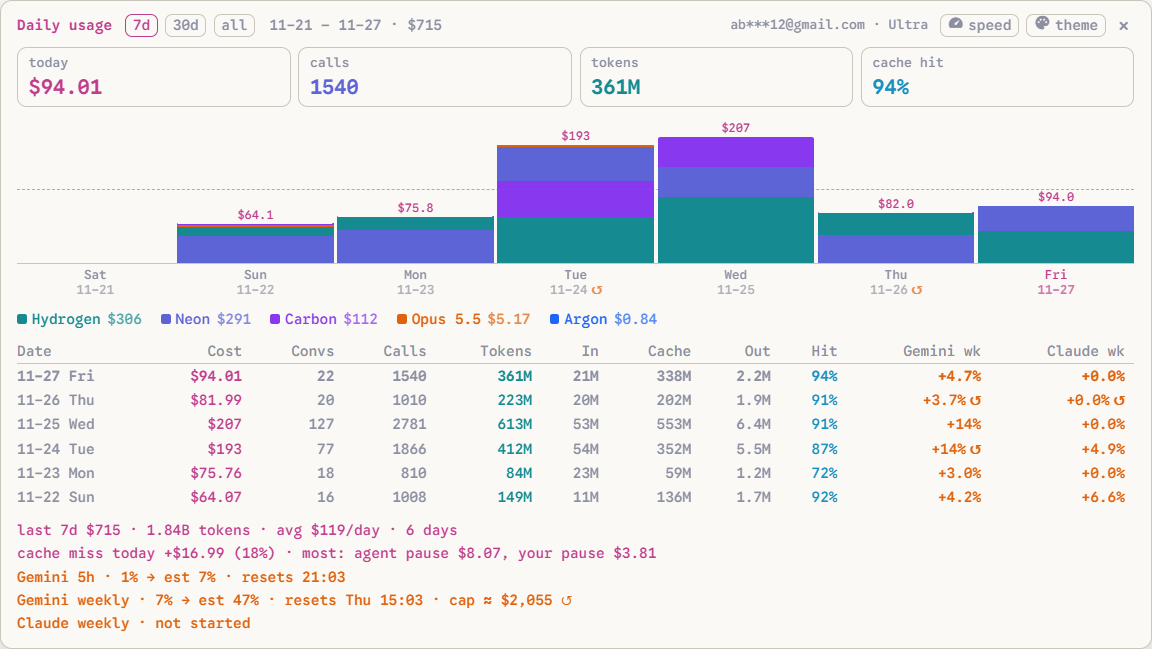
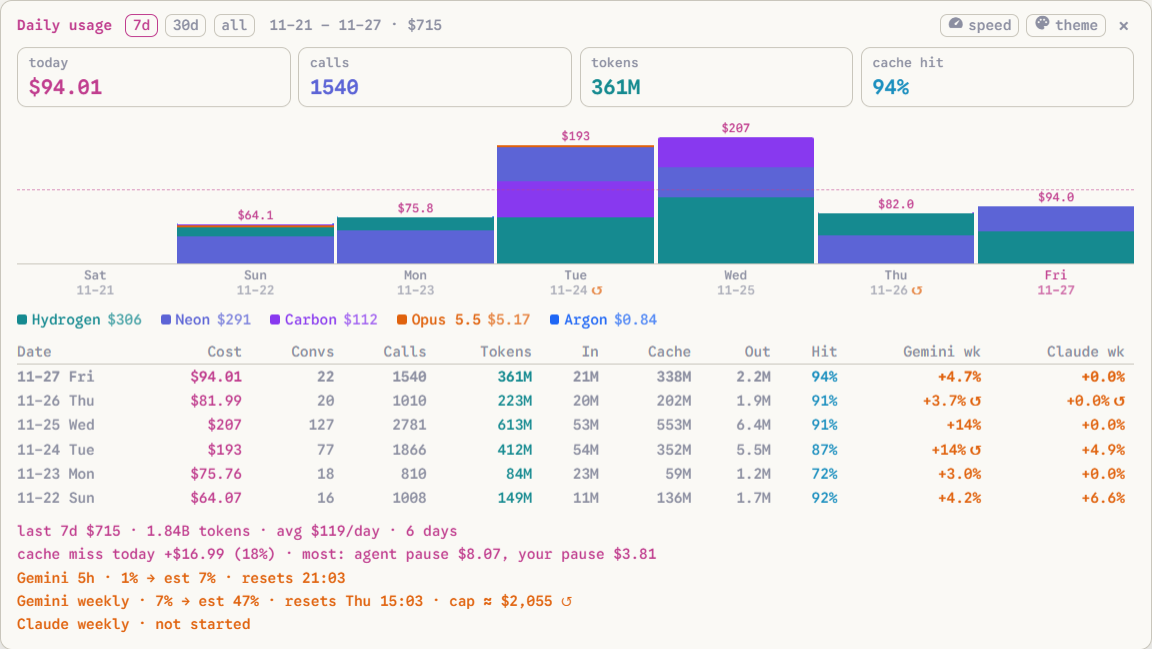
README：开头换成 8 套配色并排（左浅右深），外观一节加 3 种外形图，重画状态栏图，用量图涂掉账号；词典条数更新到 3659 / 133

diff --git a/README.en.md b/README.en.md
@@ -4,14 +4,14 @@
 
 [简体中文](README.md) | [English](README.en.md)
 
-A Chinese plugin for Antigravity Desktop: a full Simplified Chinese UI, plus a usage status bar above the input box. For Windows and macOS.
+A Chinese plugin for Antigravity Desktop: a full Simplified Chinese UI, plus a usage status bar above the input box. 8 palettes and 3 shapes, each in light and dark. For Windows and macOS.
 
 [![Download](https://img.shields.io/github/v/release/ncdeng/agy-zh-pack?label=download&color=D97757)](https://github.com/ncdeng/agy-zh-pack/releases/latest)
 [![License](https://img.shields.io/github/license/ncdeng/agy-zh-pack)](LICENSE)
 ![Windows](https://img.shields.io/badge/platform-Windows-0078D6)
 ![macOS](https://img.shields.io/badge/platform-macOS-555555)
 
-![The usage status bar above the input box](docs/images/statusbar.png)
+![The status bar in 8 palettes, light on the left and dark on the right](docs/images/palettes.png)
 
 </div>
 
@@ -20,13 +20,13 @@ A Chinese plugin for Antigravity Desktop: a full Simplified Chinese UI, plus a u
 
 ## Highlights
 
-- **Full Chinese UI**: menus, settings, buttons, hints and the Swarm panel, with 3582 dictionary entries and 128 rules. Conversations, code and file names stay as they are. Press `Ctrl+Alt+E` (`Ctrl+Option+E` on macOS) to switch back to English at any time.
+- **8 palettes × 3 shapes**: Cometix (the default, from the cometix preset of Haleclipse's ccline), Catppuccin, Tokyo Night, Rosé Pine, Gruvbox, Nord, Dracula and Mono. Shapes: `plain`, `pill` and `powerline`; quota bars: `thin`, `cells` and `ring`. Every palette has a light and a dark version that follow Antigravity. You can pick your own colors for cost, 5h quota, weekly quota and alerts.
+- **Full Chinese UI**: menus, settings, buttons, hints and the Swarm panel, with 3659 dictionary entries and 133 rules. Conversations, code and file names stay as they are. Press `Ctrl+Alt+E` (`Ctrl+Option+E` on macOS) to switch back to English at any time.
 - **Usage at a glance**: two lines above the input box show the model (with the name the API actually returns), context, cache hits, conversation cost, today's cost, time to first token, output speed, and the 5h and weekly quotas. Each subagent gets its own line.
 - **Will the quota last**: projects how much of each quota you will have used at reset, and when it runs out if it will. From your spending, it also estimates what the full 5h and weekly quotas are worth.
 - **Daily usage panel**: cost for 7 days, 30 days or all history, tokens and quota per day, every call in detail, and output speed per model.
 - **Cache misses**: finds large calls that missed the cache, and shows the extra cost and the cause (a pause, a compaction, a model switch).
 - **Compaction viewer**: click `↻3×` after the context to see what the agent still has after an automatic compaction.
-- **8 palettes, customizable**: Cometix, Catppuccin, Tokyo Night, Rosé Pine, Gruvbox, Nord, Dracula and Mono, each with light and dark versions that follow Antigravity. You can pick your own colors for cost, 5h quota, weekly quota and alerts.
 - **agy CLI included**: CLI calls count toward cost, call details and quota estimates.
 - **Signed updates**: click "更新" (Update) in the plugin panel; the plugin checks the author's signature and every file before it installs. The dictionary and prices update online every 6 hours.
 
@@ -72,19 +72,21 @@ Download the new package and run `一键安装` once. Your daily records and loo
 
 ## Status bar
 
+![The usage status bar above the input box: two lines for the main agent, one line per subagent](docs/images/statusbar.png)
+
 | Line | Example | Meaning |
 |---|---|---|
 | First | `Gemini 4 Neon · XHigh` | Model: UI name and thinking level. When the model name the API returns does not match the UI name (usually a new model in a gray test), it follows in yellow, for example `· gemini-3.8-flash-n`. When they match, it is only in the hover text |
 | | `61% · 311k · ↻3×` | Context: used share and tokens; the icon is a ring that fills up. `↻3×` means 3 automatic compactions; click it to open the compaction viewer |
 | | `98% hit` | Cache hit rate of the last call |
 | | `$4.49` | Total cost of this conversation, subagents included. A red badge appears when a single call costs $0.50 or more |
-| | `$4.49 today` | Today's cost since midnight, all conversations and agy CLI. Click it to open the daily usage panel |
+| | `$12.80 today` | Today's cost since midnight, all conversations and agy CLI. Click it to open the daily usage panel |
 | | `running` | The model is generating |
 | Second | `11.4s` | Time to first token |
 | | `74 tok/s` | Output speed |
-| | `1% · 19:41` | 5h quota: used share and reset time |
-| | `1% · 11-29 09:41 · ↓3%` | Weekly quota: used share, reset time, and how far ahead (↑) or behind (↓) an even pace |
-| Subagent | `├ research · Paper Reviewer … ● 1m05s` | One line per subagent: type and task, model, context, hit rate, cost, and state (run time, `waiting` or `✓ done`) |
+| | `18% · 19:41` | 5h quota: used share and reset time |
+| | `41% · Thu 09:41 · ↓3%` | Weekly quota: used share, reset time, and how far ahead (↑) or behind (↓) an even pace |
+| Subagent | `├ worker · Swarm Worker (rev-neon) … ● 9m37s` | One line per subagent: type and task, model, context, hit rate, cost, and state (run time, `waiting` or `✓ done`) |
 
 You can turn off each item under "显示 → 状态栏显示哪些项" (Display → Status bar items) in the plugin panel. All items are shown by default. An item that is turned off is also hidden in the subagent rows.
 
@@ -122,6 +124,8 @@ After the install, the plugin backfills earlier days from the local conversation
 ## Look
 
 Click `theme` at the top right of the daily usage panel. Changes apply at once, in all windows.
+
+![3 shapes and 3 quota bars: plain · thin, pill · cells, powerline · ring](docs/images/skins.png)
 
 | Option | Values | Default |
 |---|---|---|

diff --git a/docs/development.en.md b/docs/development.en.md
@@ -90,7 +90,7 @@ The private key is kept on the author's computer, encrypted with Windows DPAPI (
 | `package/app/setup.mjs` | Install, uninstall |
 | `package/build.mjs` | Builds the package |
 | `macos/` | macOS scripts for running from source (the v1.x way); to install the plugin, use the package |
-| `docs/images/statusbar.png`, `docs/images/panel.png` | The screenshots in the README |
+| `docs/images/` | The screenshots in the README: `palettes.png` (8 palettes), `skins.png` (3 shapes), `statusbar.png`, `panel.png`, `usage.png`. The palette, shape and status bar images use sample numbers, not local conversations |
 | `docs/testing.md`, `docs/development.md` | Test records; how it works and development (this page). Each has an English version `*.en.md` |
 
 For the files in the data folder, see [Data](../README.en.md#data).

diff --git a/docs/development.md b/docs/development.md
@@ -90,7 +90,7 @@ node tools/publish.mjs <版本> --title "<Release 标题>" --notes <发布说明
 | `package/app/setup.mjs` | 一键安装、卸载 |
 | `package/build.mjs` | 生成安装包 |
 | `macos/` | 从源码运行时的 macOS 脚本（v1.x 的方式）；装插件请用安装包 |
-| `docs/images/statusbar.png`、`docs/images/panel.png` | README 里的截图 |
+| `docs/images/` | README 里的截图：`palettes.png`（8 套配色）、`skins.png`（3 种外形）、`statusbar.png`、`panel.png`、`usage.png`。配色、外形和状态栏三张用示例数字画的，不含本机对话 |
 | `docs/testing.md`、`docs/development.md` | 测试记录；原理和开发说明（本页）。各有英文版 `*.en.md` |
 
 数据目录里的文件见 [数据](../README.md#数据)。
